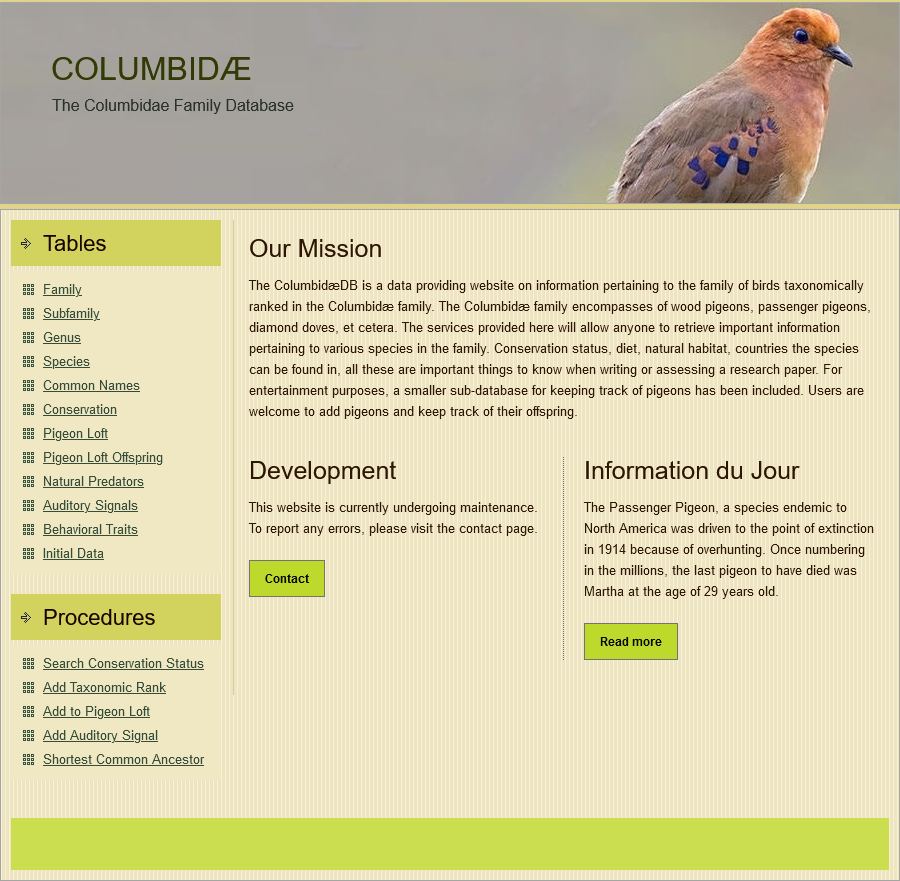
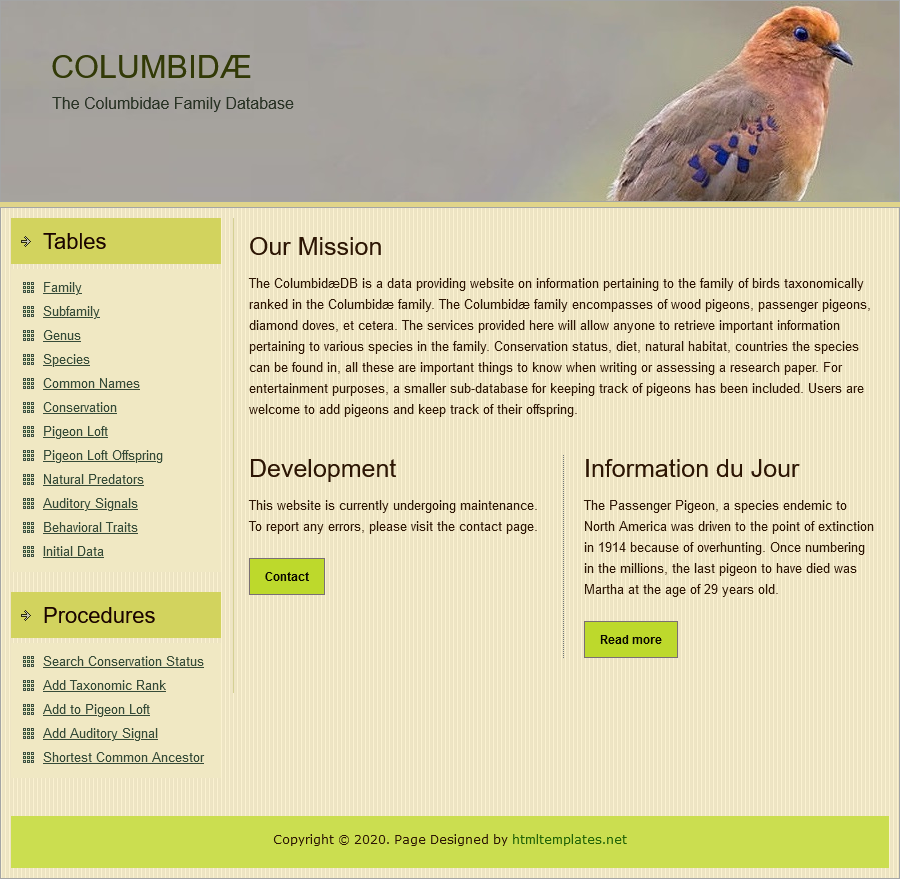
Added space between both images in README.md

diff --git a/home.php b/home.php
@@ -97,7 +97,7 @@
 
     <div class="clear"></div>
     
-    <div id="footer">
+    <div id="footer">Copyright &copy; 2020. Page Designed by <a href="http://www.htmltemplates.net" target="_blank">htmltemplates.net</a><br>  
 
     </div>
 	
